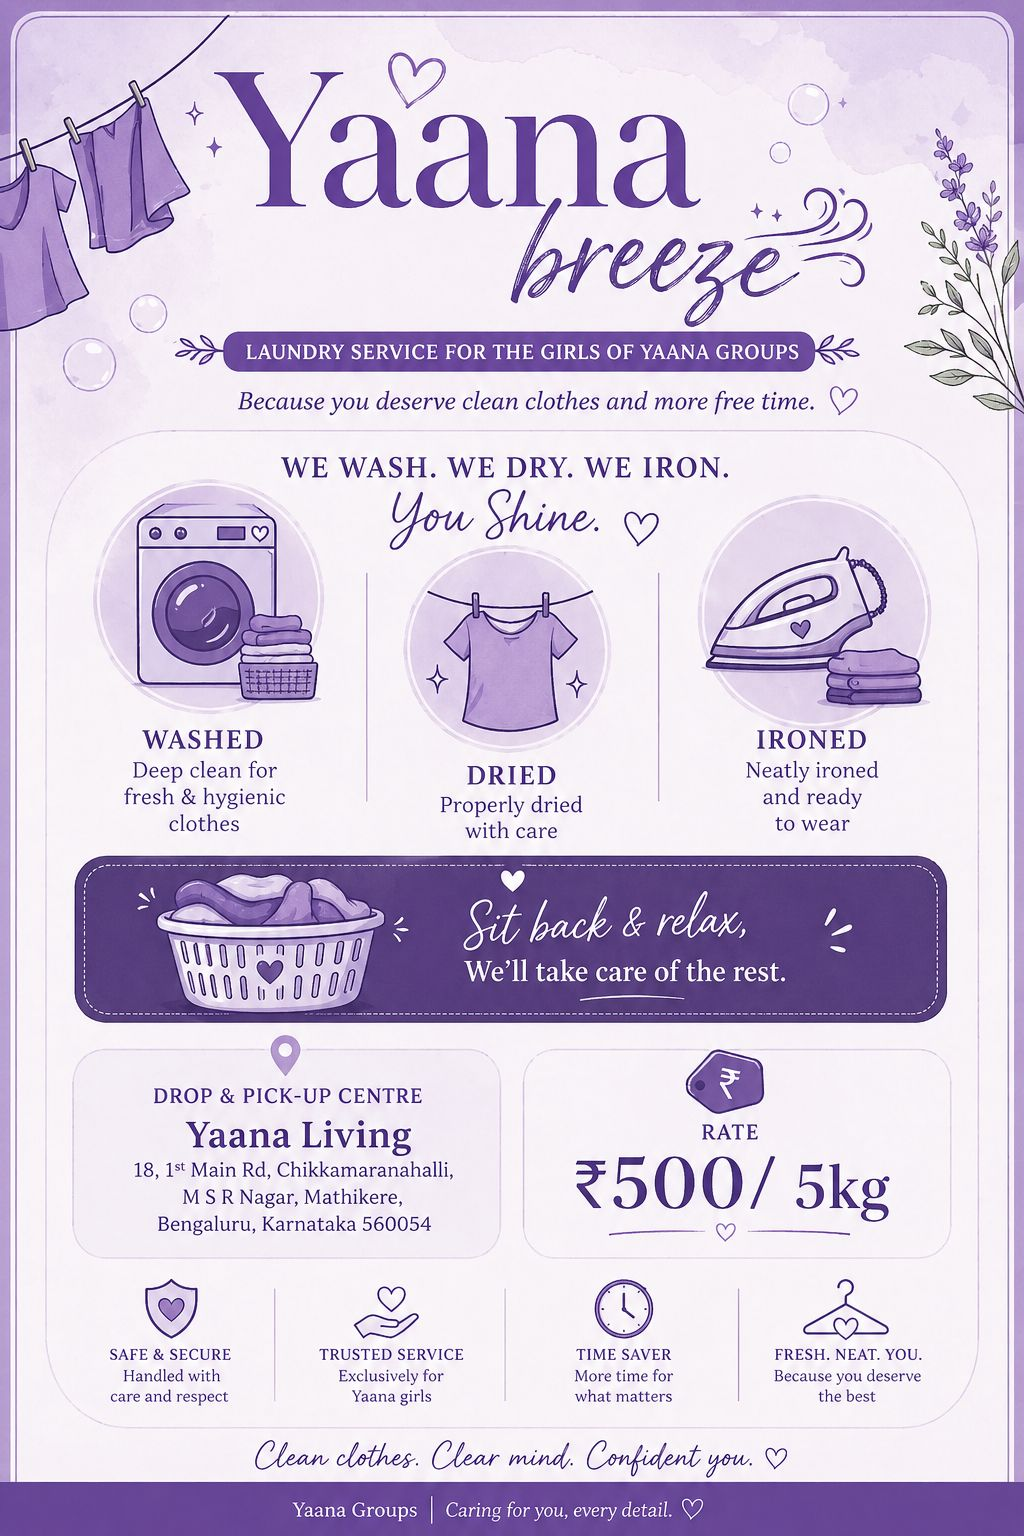
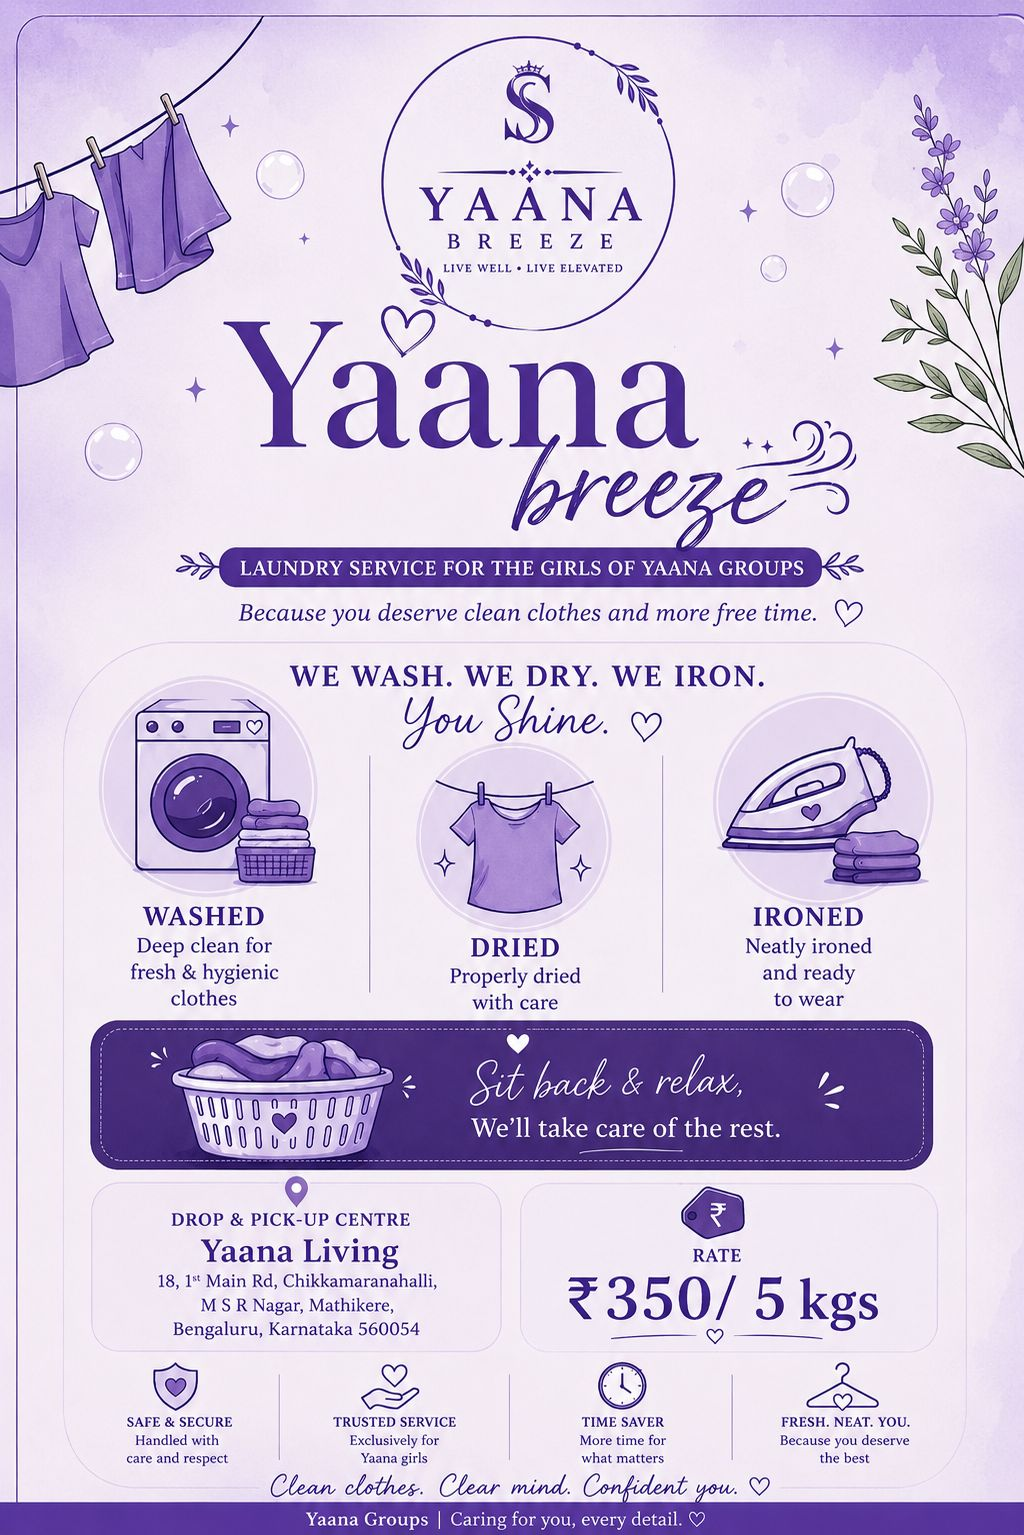
change in yaana breeze

diff --git a/src/app/(public)/yaana-breeze/page.tsx b/src/app/(public)/yaana-breeze/page.tsx
@@ -415,7 +415,7 @@ const YaanaBreeze: FC = () => {
             </div>
             <p className="mt-2 text-[10px] font-bold uppercase tracking-[0.28em] text-[#815AC0]">Rate</p>
             <div className="mt-2 flex items-baseline gap-1">
-              <span className="font-serif text-6xl font-bold text-[#3D1F6B]">₹500</span>
+              <span className="font-serif text-6xl font-bold text-[#3D1F6B]">₹350</span>
               <span className="text-xl font-semibold text-gray-400">/ 5kg</span>
             </div>
             <p className="mt-2 text-xs text-gray-500">Affordable. Transparent. Hassle-free.</p>
